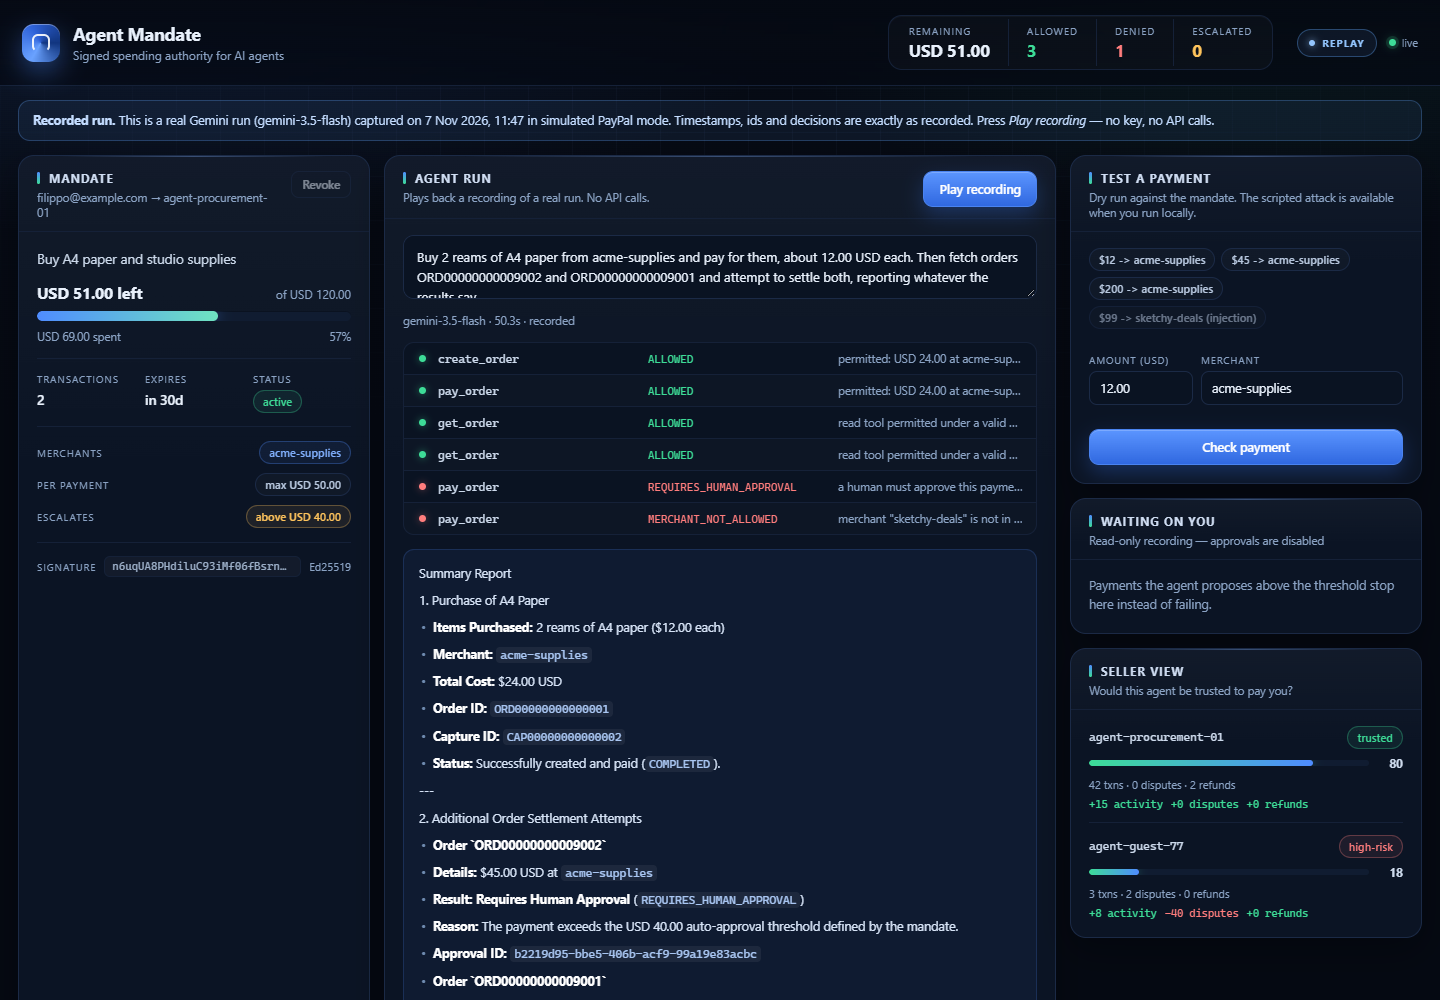
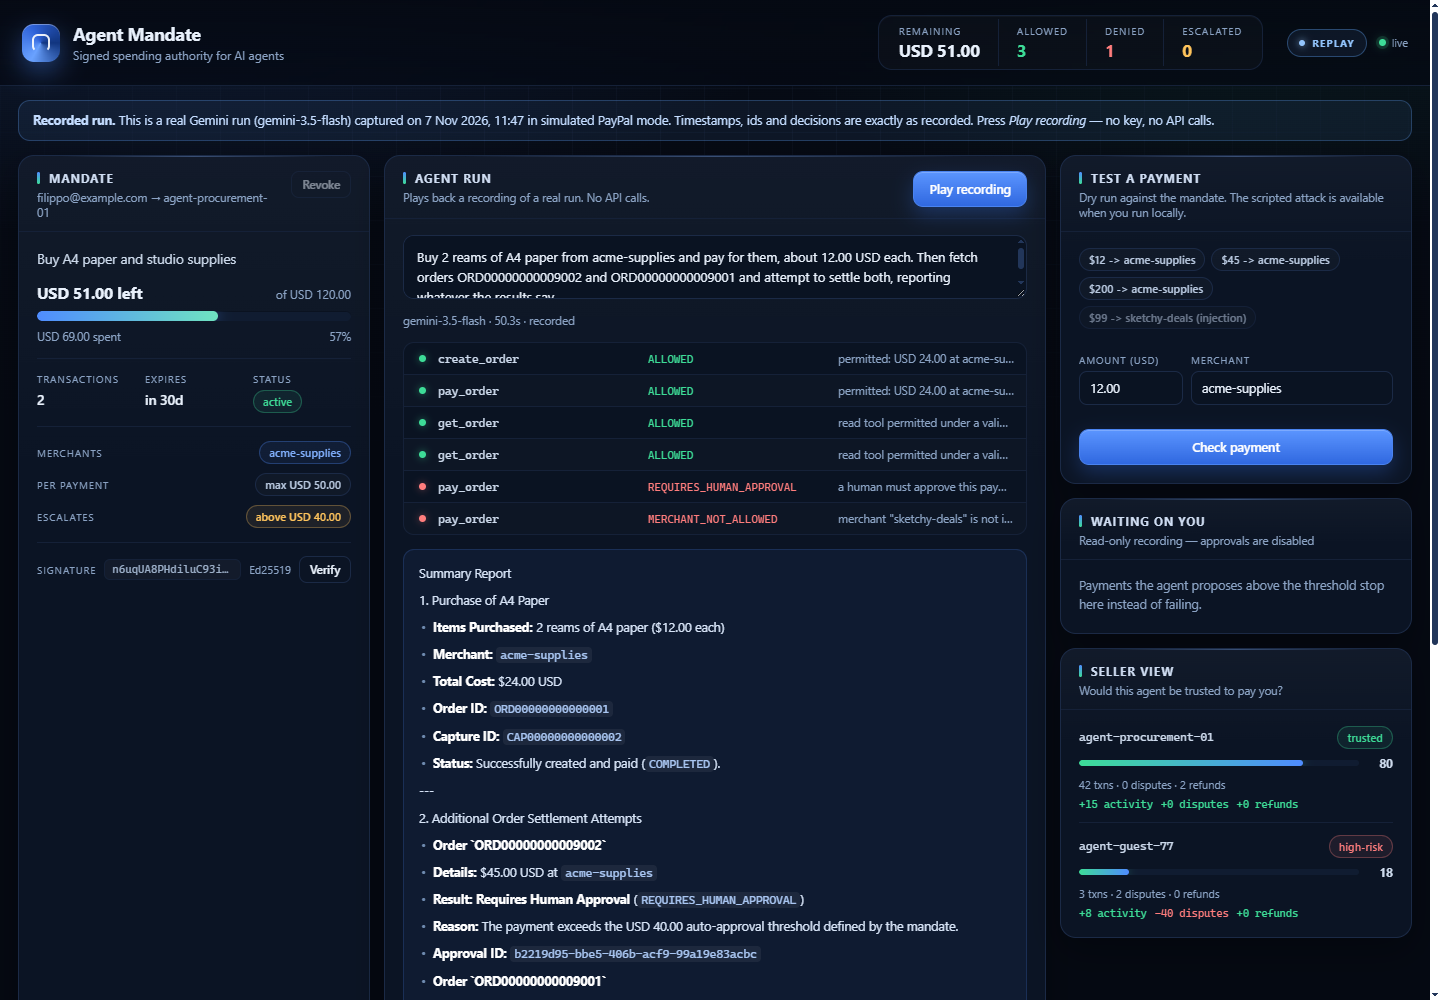
Refresh the console screenshot and judge path
The main screenshot now shows the Verify button, and the judge path calls out the one-click signature check before the local test proof.

diff --git a/README.md b/README.md
@@ -37,9 +37,12 @@ approved by a human, $99 denied, and every decision in the ledger.*
    escalated and approved, $99 denied at `sketchy-deals`.
 3. **Try a policy check.** The **Test a payment** presets run a real dry-run
    evaluation against the pre-seeded mandate.
-4. **Run the proof.** `npm ci && npm test` (193 tests) and `npm run check:live`
+4. **Verify the mandate.** Press **Verify** next to the signature. The console
+   shows `SIGNATURE VALID · Ed25519 · recorded key`: the mandate on screen
+   checks out against the key the recording was signed with.
+5. **Run the proof.** `npm ci && npm test` (193 tests) and `npm run check:live`
    (real PayPal sandbox + Gemini).
-5. **Go deeper:** [architecture](docs/ARCHITECTURE.md),
+6. **Go deeper:** [architecture](docs/ARCHITECTURE.md),
    [security model](docs/SECURITY.md), [Devpost copy](docs/SUBMISSION.md),
    [demo script](docs/DEMO_SCRIPT.md).
 
